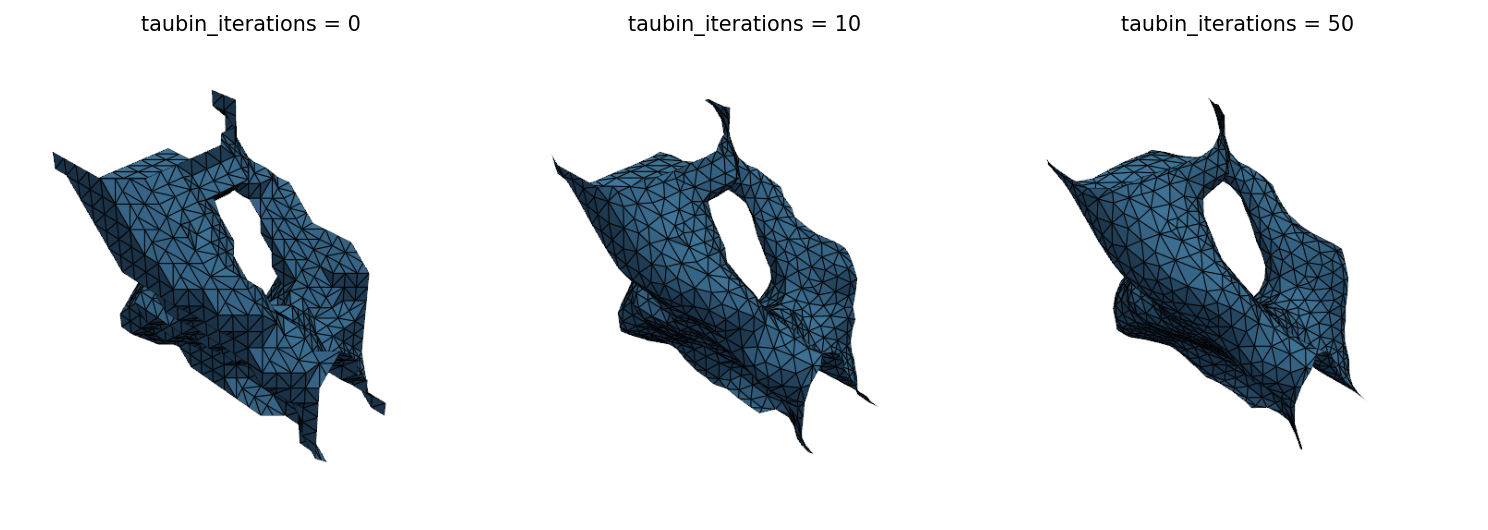
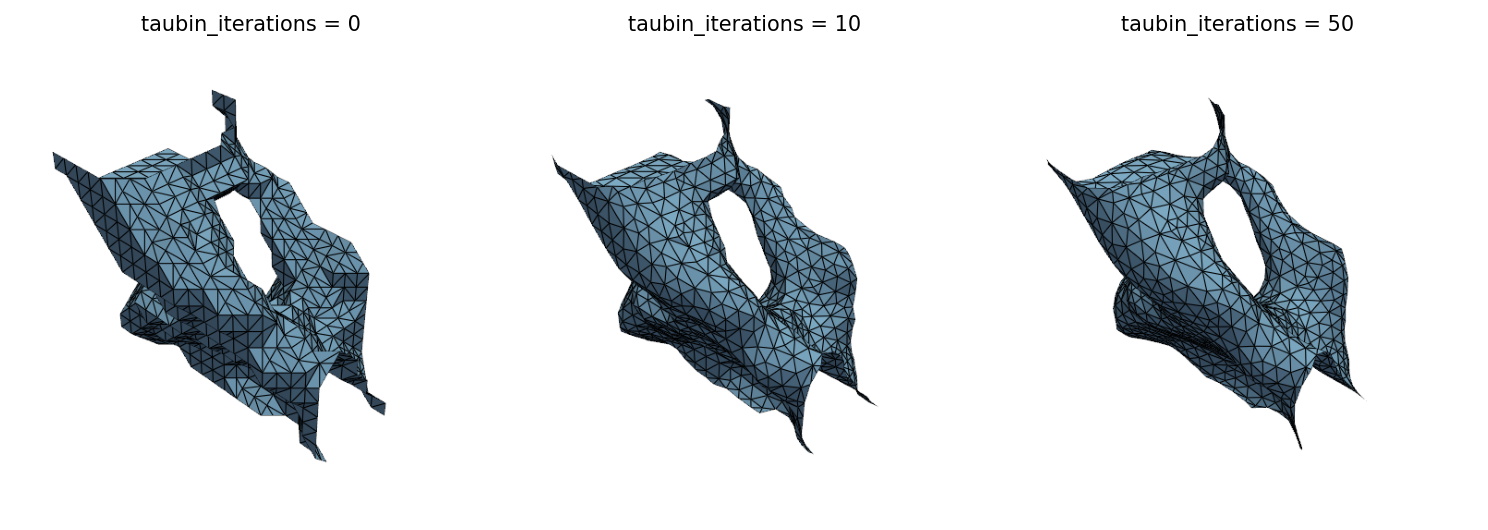
fix: brighter mesh color, top-aligned titles, quality layout polish
- Mesh face color #88BDE6 for better edge contrast
- Pipeline stages: titles placed at uniform y via fig.text
- Quality jacobian: no-title scalar bar, legend/stats in headroom

diff --git a/scripts/generate_doc_images.py b/scripts/generate_doc_images.py
@@ -52,7 +52,7 @@ def _ensure_output_dir() -> None:
 # ---------------------------------------------------------------------------
 
 
-def _pv_screenshot(vertices, faces, color="steelblue"):
+def _pv_screenshot(vertices, faces, color="#88BDE6"):
     """Render a mesh off-screen and return the image as a numpy array."""
     import numpy as np
     import pyvista as pv
@@ -155,7 +155,7 @@ def gen_pipeline_stages() -> None:
     state_ext = extract(state_pre)
     state_smo = smooth(state_ext)
 
-    fig, axes = plt.subplots(1, 4, figsize=(12, 3.5))
+    fig, axes = plt.subplots(1, 4, figsize=(12, 3.8))
     titles = ["Raw Field\n(center slice)", "After Threshold\n(binary)",
               "Marching Cubes\n(raw mesh)", "After Smoothing"]
 
@@ -163,29 +163,32 @@ def gen_pipeline_stages() -> None:
     field = state.field
     mid = field.shape[0] // 2
     axes[0].imshow(field[mid], cmap="viridis", origin="lower")
-    axes[0].set_title(titles[0], fontsize=9)
     axes[0].axis("off")
 
     # Panel 2: Center slice of binary field
     assert state_pre.binary is not None
     axes[1].imshow(state_pre.binary[mid], cmap="gray", origin="lower")
-    axes[1].set_title(titles[1], fontsize=9)
     axes[1].axis("off")
 
     # Panel 3: Marching cubes mesh (pyvista screenshot)
     mesh_raw = _pv_screenshot(state_ext.vertices, state_ext.faces)
     axes[2].imshow(mesh_raw)
-    axes[2].set_title(titles[2], fontsize=9)
     axes[2].axis("off")
 
     # Panel 4: Smoothed mesh
     mesh_smooth = _pv_screenshot(state_smo.best_vertices, state_smo.faces)
     axes[3].imshow(mesh_smooth)
-    axes[3].set_title(titles[3], fontsize=9)
     axes[3].axis("off")
 
     fig.patch.set_facecolor(BG_COLOR)
-    fig.tight_layout(pad=1.0)
+    fig.tight_layout(pad=0.5)
+
+    # Add titles at a uniform y-position so they are top-aligned
+    for ax, title in zip(axes, titles, strict=True):
+        bbox = ax.get_position()
+        fig.text(bbox.x0 + bbox.width / 2, bbox.y1 + 0.02, title,
+                 ha="center", va="bottom", fontsize=9)
+
     fig.savefig(OUTPUT_DIR / "pipeline-stages.png", dpi=DPI, bbox_inches="tight",
                 facecolor=BG_COLOR)
     plt.close(fig)
@@ -380,21 +383,20 @@ def gen_quality_metrics() -> None:
     values = _compute_cell_metric(pv_mesh, metric)
     pass_pct = _compute_pass_rate(values, metric, threshold)
 
-    # Left panel: pyvista heatmap screenshot
-    # Position scalar bar below the mesh with generous spacing
+    # Left panel: pyvista heatmap — no title in pyvista, we add it in matplotlib
+    # Scalar bar at very bottom with small font to avoid overlapping the mesh
     pv_mesh.cell_data[metric] = values
-    pl = pv.Plotter(off_screen=True, window_size=[800, 700])
+    pl = pv.Plotter(off_screen=True, window_size=[800, 750])
     pl.add_mesh(
         pv_mesh, scalars=metric, cmap="RdYlGn",
         show_edges=True, edge_color="black", line_width=0.3,
         scalar_bar_args={
-            "title": _METRIC_LABELS[metric],
-            "title_font_size": 14,
-            "label_font_size": 12,
-            "position_x": 0.2,
-            "position_y": 0.02,
-            "width": 0.6,
-            "height": 0.06,
+            "title": "",
+            "label_font_size": 11,
+            "position_x": 0.25,
+            "position_y": 0.01,
+            "width": 0.5,
+            "height": 0.04,
             "vertical": False,
         },
     )
@@ -403,31 +405,35 @@ def gen_quality_metrics() -> None:
     heatmap_img = pl.screenshot(return_img=True)
     pl.close()
 
-    # Composite: left = heatmap, right = histogram
-    fig, (ax_left, ax_right) = plt.subplots(
-        1, 2, figsize=(11, 4.5),
-        gridspec_kw={"width_ratios": [1.2, 1], "wspace": 0.3},
-    )
+    # Composite figure with generous spacing
+    fig = plt.figure(figsize=(11, 5))
+    fig.patch.set_facecolor(BG_COLOR)
 
+    # Use gridspec for precise control
+    gs = fig.add_gridspec(1, 2, width_ratios=[1.2, 1], wspace=0.35)
+    ax_left = fig.add_subplot(gs[0, 0])
+    ax_right = fig.add_subplot(gs[0, 1])
+
+    # Left: heatmap with title well above image
     ax_left.imshow(heatmap_img)
-    ax_left.set_title("Per-Cell Scaled Jacobian", fontsize=11, pad=10)
+    ax_left.set_title("Per-Cell Scaled Jacobian", fontsize=11, pad=14)
     ax_left.axis("off")
 
-    # Right: histogram with clean layout
+    # Right: histogram
     counts, bin_edges, patches = ax_right.hist(
         values, bins=50, edgecolor="white", linewidth=0.3, alpha=0.9,
         color="#3182BD",
     )
-    ax_right.axvline(threshold, color="#D0021B", linestyle="--", linewidth=2,
-                     label=f"FEA threshold ({threshold})")
+    ax_right.axvline(threshold, color="#D0021B", linestyle="--", linewidth=2)
 
-    # Extend y-axis for headroom; place stats in upper-right above bars
+    # Extend y-axis generously so legend + stats sit above all bars
     y_max = counts.max()
-    ax_right.set_ylim(0, y_max * 1.4)
+    ax_right.set_ylim(0, y_max * 1.55)
 
+    # Stats annotation — top right, well above bars
     direction = ">=" if _HIGHER_IS_BETTER[metric] else "<="
     ax_right.text(
-        0.97, 0.96,
+        0.97, 0.97,
         f"{pass_pct:.1f}% pass ({direction} {threshold})\n"
         f"mean = {np.mean(values):.2f}   median = {np.median(values):.2f}",
         transform=ax_right.transAxes, ha="right", va="top",
@@ -435,17 +441,25 @@ def gen_quality_metrics() -> None:
         bbox=dict(boxstyle="round,pad=0.4", facecolor="#F5F5F0",
                   edgecolor="#CCCCCC", alpha=0.95),
     )
+
+    # Threshold legend — top left, same vertical zone as stats
+    ax_right.text(
+        0.03, 0.97,
+        f"- - FEA threshold ({threshold})",
+        transform=ax_right.transAxes, ha="left", va="top",
+        fontsize=8, color="#D0021B",
+        bbox=dict(boxstyle="round,pad=0.3", facecolor="#F5F5F0",
+                  edgecolor="#CCCCCC", alpha=0.95),
+    )
+
     ax_right.set_xlabel(_METRIC_LABELS[metric], fontsize=10)
     ax_right.set_ylabel("Number of Cells", fontsize=10)
-    ax_right.set_title("Distribution", fontsize=11, pad=10)
-    ax_right.legend(loc="upper left", fontsize=8, framealpha=0.9)
+    ax_right.set_title("Distribution", fontsize=11, pad=14)
 
     # Light grid for readability
     ax_right.yaxis.grid(True, alpha=0.3, linewidth=0.5)
     ax_right.set_axisbelow(True)
 
-    fig.patch.set_facecolor(BG_COLOR)
-    fig.tight_layout(pad=1.0)
     fig.savefig(OUTPUT_DIR / "quality-jacobian.png", dpi=DPI, bbox_inches="tight",
                 facecolor=BG_COLOR)
     plt.close(fig)
